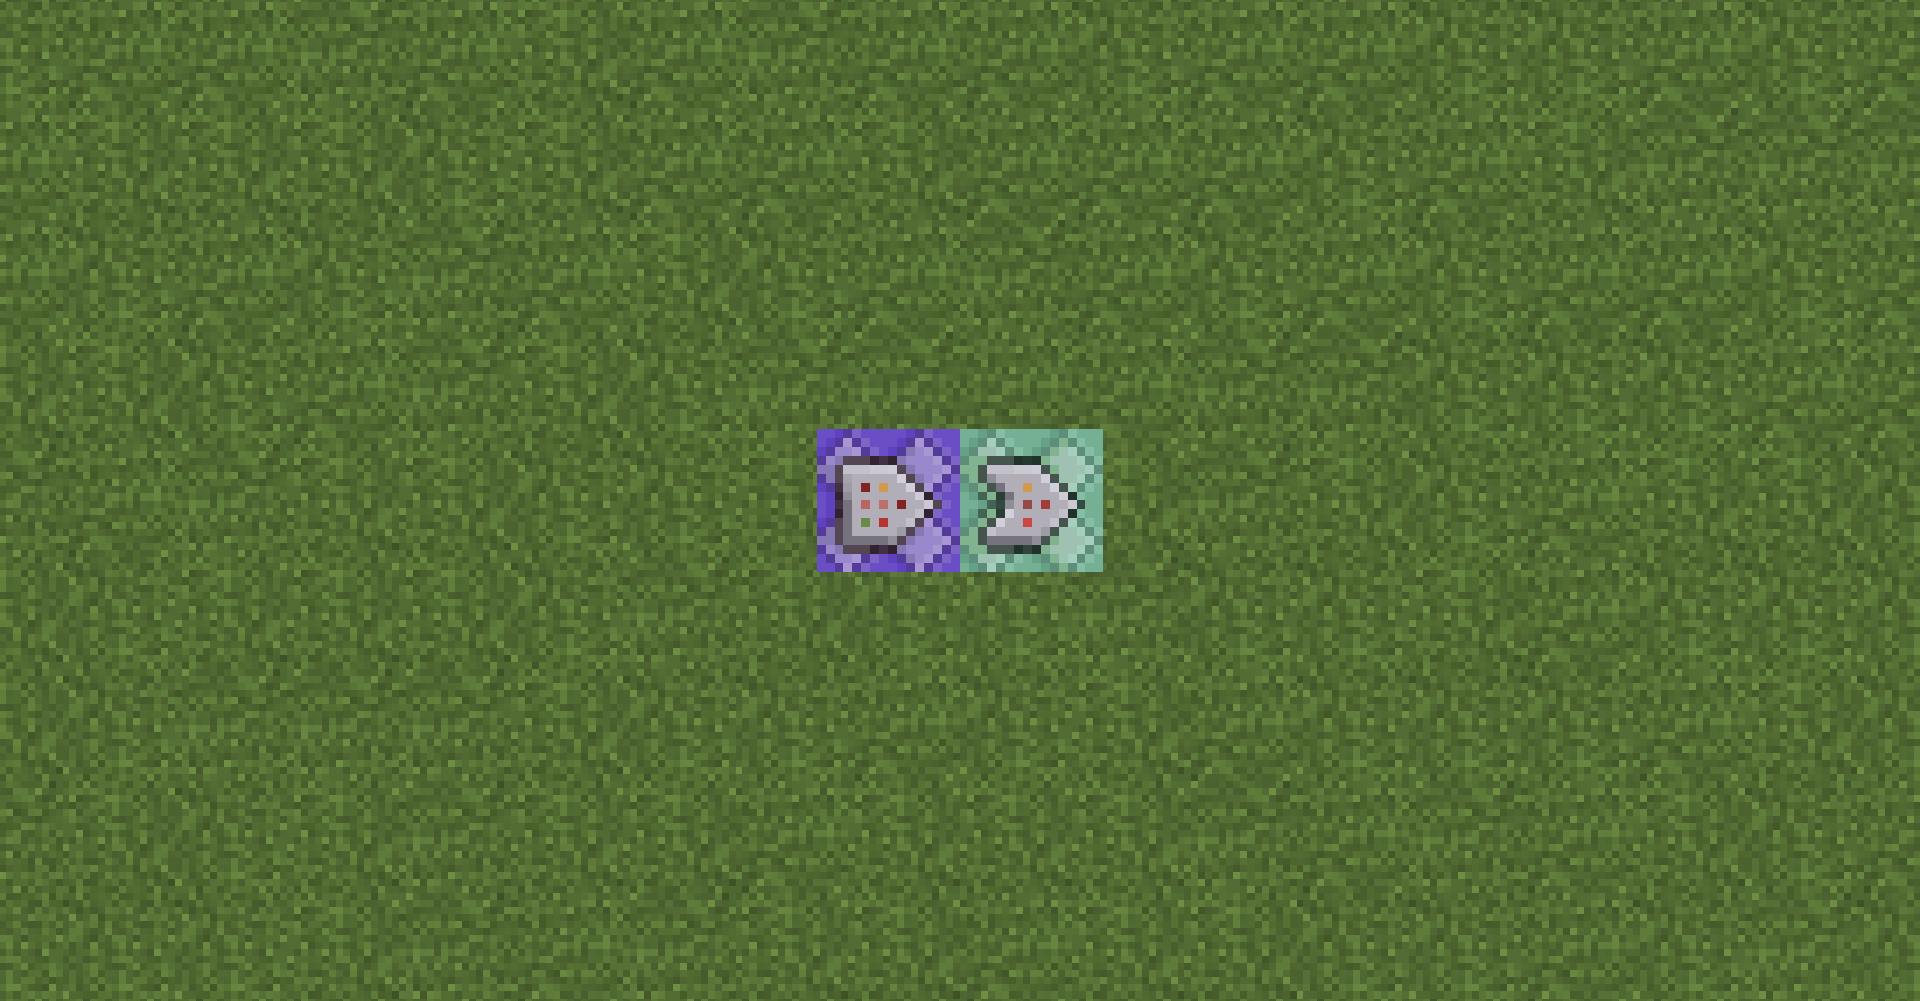
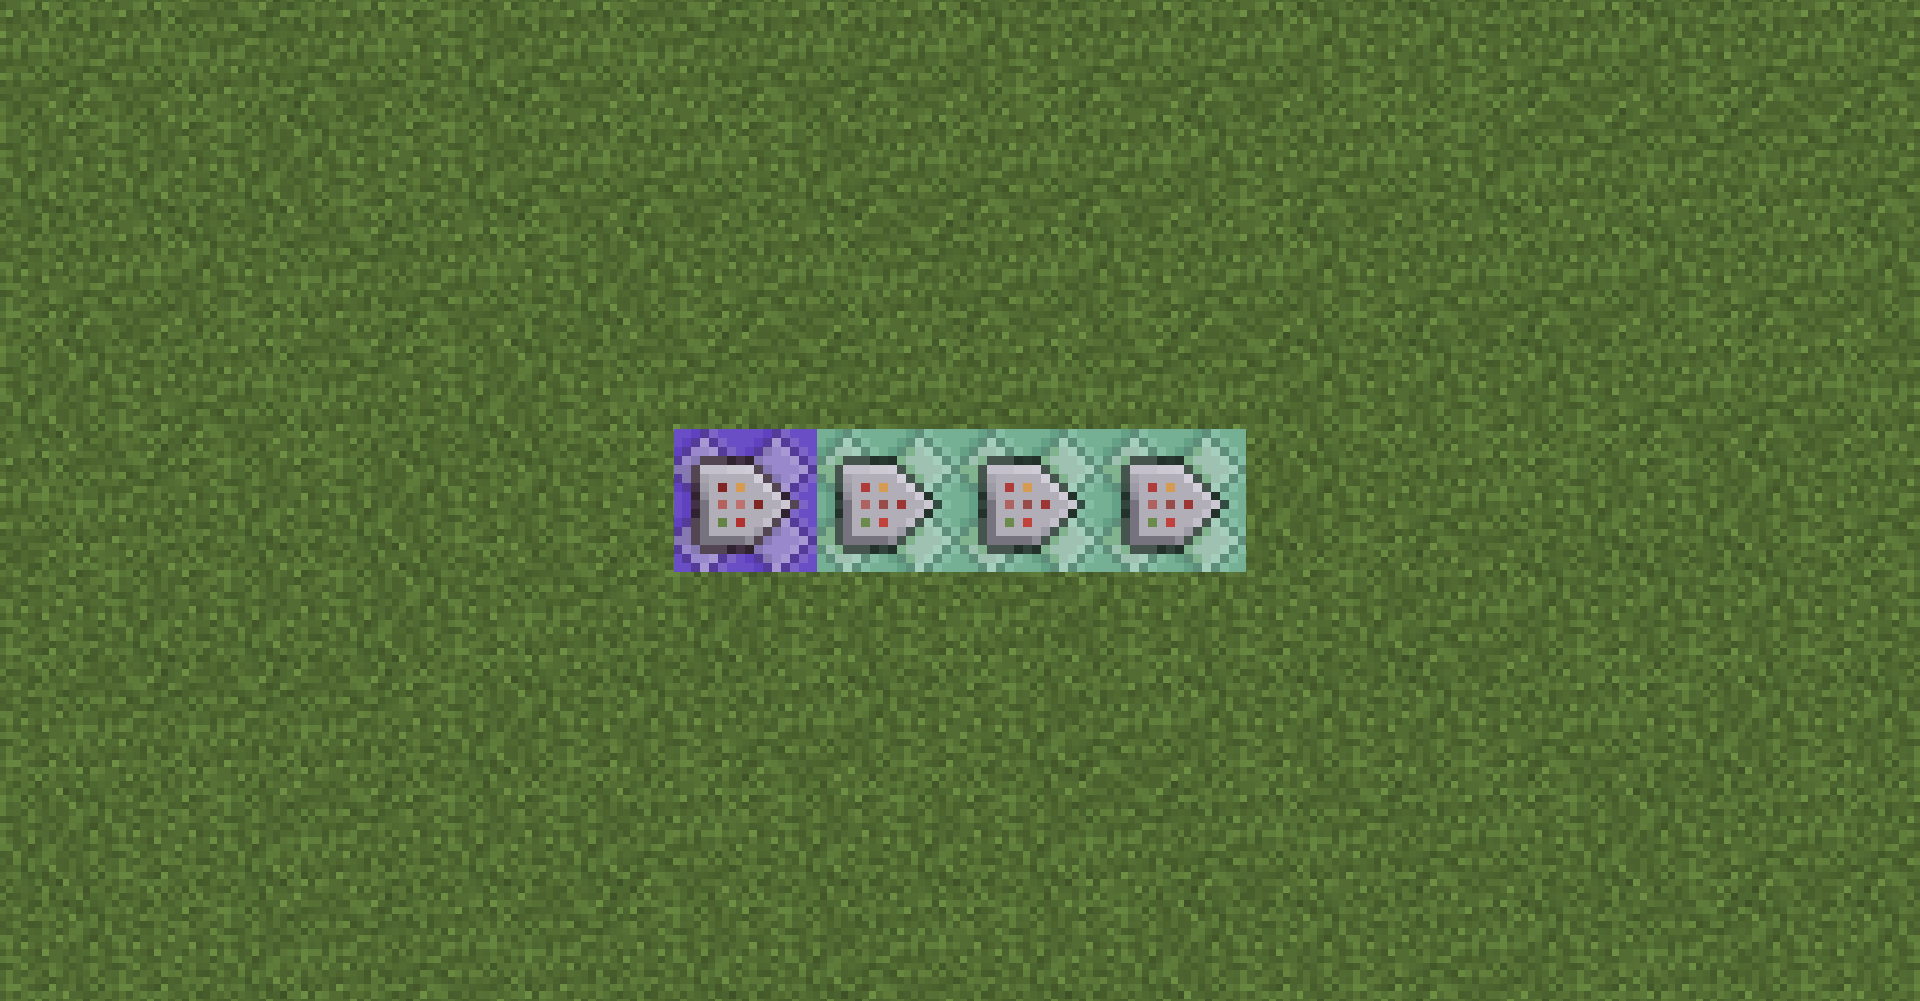
completed 1.6

diff --git a/docs/zh-cn/1. 下载安装卸载/1.6 1.13-和基岩版的命令方块方案.md b/docs/zh-cn/1. 下载安装卸载/1.6 1.13-和基岩版的命令方块方案.md
@@ -4,40 +4,159 @@
 
 ## 双人方案
 
+### 最终效果
 双人方案适用于双人联机的情况下, 直接使用`/trigger tpa`传送到对方
 
+### 手动输入部分
 在开始搞命令方块之前 先新建以下记分项 （输入每行指令之前要加斜杠"/"）
 ```mcfunction
-scoreboard objective add tpa trigger
+scoreboard objectives add tpa trigger
 ```
 
+### 命令方块部分
 设置以下命令方块: 
 ```mcfunction
+scoreboard players enable @a tpa
 tp @p[name="<玩家1>",scores={tpa=1..}] <玩家2> 
 tp @p[name="<玩家2>",scores={tpa=1..}] <玩家1> 
+scoreboard players set @a tpa 0
 ```
-第一行写在一个 循环 不受制约 保持开启 的命令方块中
-第二行写在一个 连锁 条件制约 保持开启 的命令方块中
-两个命令方块的朝向需要保持一致且后者需要在前者方块材质侧面三角形的指向方向
-摆放如图所示
-![命令方块示意](../../assets/1.6_command_blocks.png)
+
+- 第一行写在一个 **循环 不受制约 保持开启** 的命令方块中
+- 第二到第四行写在分别3个 **连锁 不受制约 保持开启** 的命令方块中
+
 其中的尖括号"<>"包括的部分包括尖括号本身需要用真实的玩家名替代
+
+放置为如图所示
+![命令方块示意](../../assets/1.6_command_blocks.png)
+
 
 ## 多人方案
 
-多人方案适用于多人方案的情况下, 直接使用`/trigger tpa set <ID>`传送到对应ID的玩家
+### 最终效果
+多人方案适用于多人方案的情况下
+每个玩家进入后会被系统分配id
+如果要确定每个玩家的id 可以通过`/scoreboard objectives setdisplay sidebar id`查看 然后`/scoreboard objectives setdisplay sidebar`关闭查看
+直接使用`/trigger tpa set <ID>`传送到对应ID的玩家
 
-在开始搞命令方块之前 先新建以下记分项 （输入每行指令之前要加斜杠"/"）
+### 手动输入部分
+在开始搞命令方块之前 先依次按行输入以下指令 （输入每行指令之前要加斜杠"/"）
 ```mcfunction
-scoreboard objective add tpa trigger
-scoreboard objective add id dummy
+scoreboard objectives add tpa trigger
+scoreboard objectives add id dummy
+scoreboard players set #global_current id 0
 ```
 
-设置以下命令方块: 
+### 命令方块部分
+
+#### 1. 分配ID
+
+放置为如图所示（最好保证图片为上北下南）
+![命令方块示意](../../assets/1.6_command_blocks_.png)
+
+命令方块A: 循环 不受制约 保持开启
 ```mcfunction
-tp @p[name="<玩家1>",scores={tpa=1..}] <玩家2> 
-tp @p[name="<玩家2>",scores={tpa=1..}] <玩家1> 
+execute as @a unless score @s id = @s id run scoreboard players set @s id 0
 ```
-第一行写在一个 循环 不受制约 保持开启 的命令方块中
-第二行写在一个 连锁 条件制约 保持开启 的命令方块中
-两个命令方块的朝向需要保持一致且后者需要在前者方块材质侧面三角形的指向方向
+命令方块B: 循环 不受制约 保持开启
+```mcfunction
+execute as @p[scores={id=0}] run scoreboard players add #global_current id 1
+```
+
+两个命令方块CD 顺着上一个放: 连锁 条件制约 保持开启
+```
+tellraw @a ["[TPA] ", {"selector": "@p[scores={id=0}] "}, " 分配了ID: ", {"score": {"name": "#global_current", "objective": "id"}}]
+scoreboard players operation @p[scores={id=0}] id = #global_current id
+```
+
+#### 2. 处理传送
+
+处理传送会有两个方案即*自闭链方案*和*枚举方案*
+前者相对来说会复杂一点 但是可以理论上兼容无数玩家的传送
+后者简单一点 但是只能兼容固定数量以下玩家的传送
+
+##### 自闭链方案
+
+该方案需要注意命令方块的空间排布和方向
+同时错误的操作可能导致存档崩溃
+所以请务必一步一步按照教程来
+
+最终命令方块放置为如图所示（混凝土为标尺之用）
+![命令方块示意](../../assets/1.6_command_blocks___.png)
+
+挨着 命令方块A的南边放 向西的 命令方块E: *循环 不受制约 **红石控制***
+```mcfunction
+scoreboard players enable @a tpa
+```
+
+继续顺着 命令方块E的西面放 命令方块F,G,H,I,J,K,L,$M_0$和$N_0$ **连锁 不受制约 保持开启**
+```mcfunction
+tp @p[tag=reqer] @p[tag=target]
+scoreboard players set @a[tag=reqer] tpa 0
+tag @a remove reqer
+tag @a remove target
+tag @a remove notmatch
+scoreboard players set #found tpa 0
+tag @p[scores={tpa=1..}] add reqer
+tag @p[tag=!notmatch] add target
+execute if score @p[tag=target] id = @p[tag=reqer] tpa run scoreboard players set #found tpa 1
+```
+
+继续顺着 命令方块$N_0$的西面放 朝向南面的命令方块$O_0$ **连锁 不受制约 保持开启**
+```mcfunction
+execute if score #found tpa matches 0 run tag @p[tag=target] add notmatch
+```
+
+继续顺着 命令方块$O_0$的南面放 朝向东面的$P_0$ **连锁 不受制约 保持开启**
+```mcfunction
+execute if score #found tpa matches 0 run tag @a remove target
+```
+
+继续顺着 命令方块$P_0$的东面放 不需要填写指令的 朝向东面的$Q_0$ **连锁 不受制约 保持开启**
+继续顺着 命令方块$Q_0$的东面放 朝向北面的$R_0$ **连锁 不受制约 保持开启**
+```mcfunction
+execute if score #found tpa matches 0 if entity @p[tag=!notmatch] run clone ~-2 ~ ~-3 ~ ~ ~-2 ~-2 ~ ~-1
+```
+
+然后人站在$O_0$(第一个开始拐弯的命令方块, 西北角的那个)上面正中间 聊天栏输入
+```mcfunction
+clone ~ ~-1 ~ ~2 ~-1 ~1 ~ ~-1 ~-2
+```
+然后身后会出现6个命令方块 根据对应关系会是$M_1$,$N_1$,$O_1$,$P_1$,$Q_1$,$R_1$
+
+##### 枚举方案
+
+```mcfunction
+scoreboard players enable @a tpa
+tp @a[scores={tpa=1}] @p[scores={id=1}]
+tp @a[scores={tpa=2}] @p[scores={id=2}]
+tp @a[scores={tpa=3}] @p[scores={id=3}]
+tp @a[scores={tpa=4}] @p[scores={id=4}]
+tp @a[scores={tpa=5}] @p[scores={id=5}]
+tp @a[scores={tpa=6}] @p[scores={id=6}]
+tp @a[scores={tpa=7}] @p[scores={id=7}]
+tp @a[scores={tpa=8}] @p[scores={id=8}]
+tp @a[scores={tpa=9}] @p[scores={id=9}]
+tp @a[scores={tpa=10}] @p[scores={id=10}]
+tp @a[scores={tpa=11}] @p[scores={id=11}]
+tp @a[scores={tpa=12}] @p[scores={id=12}]
+tp @a[scores={tpa=13}] @p[scores={id=13}]
+tp @a[scores={tpa=14}] @p[scores={id=14}]
+tp @a[scores={tpa=15}] @p[scores={id=15}]
+tp @a[scores={tpa=16}] @p[scores={id=16}]
+tp @a[scores={tpa=17}] @p[scores={id=17}]
+tp @a[scores={tpa=18}] @p[scores={id=18}]
+tp @a[scores={tpa=19}] @p[scores={id=19}]
+tp @a[scores={tpa=20}] @p[scores={id=20}]
+...
+scoreboard players set @a tpa 0
+```
+枚举方案很简单 像如上模式进行填充就行 
+
+如果工作量过大可以适当从末尾开始减少命令数 
+
+如果要兼容更多人就按照这样继续往下加 但是再多人的话我会推荐你用自闭链尽管麻烦
+
+
+最终命令方块放置为如图所示
+![命令方块示意](../../assets/1.6_command_blocks__.png)
